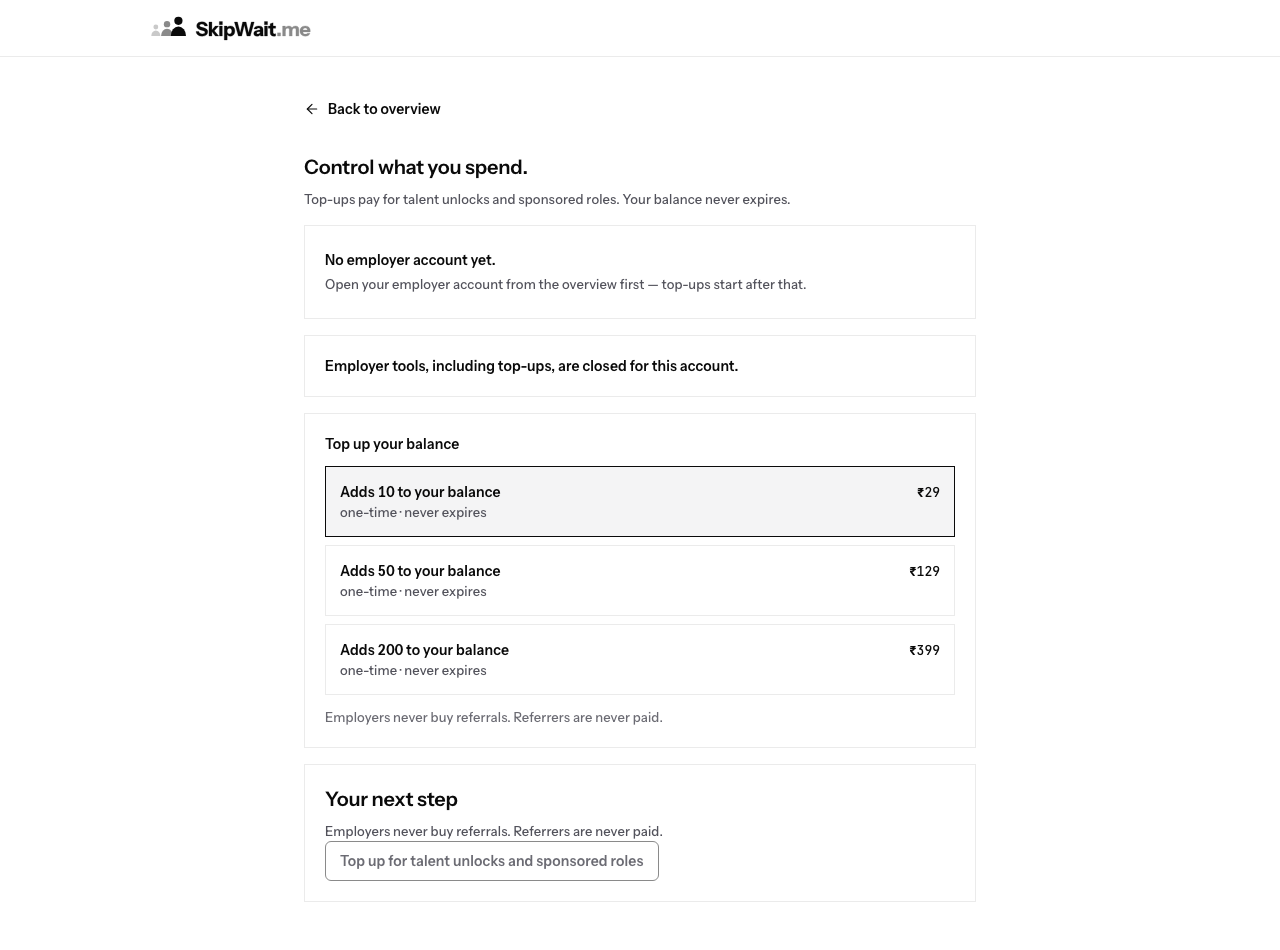
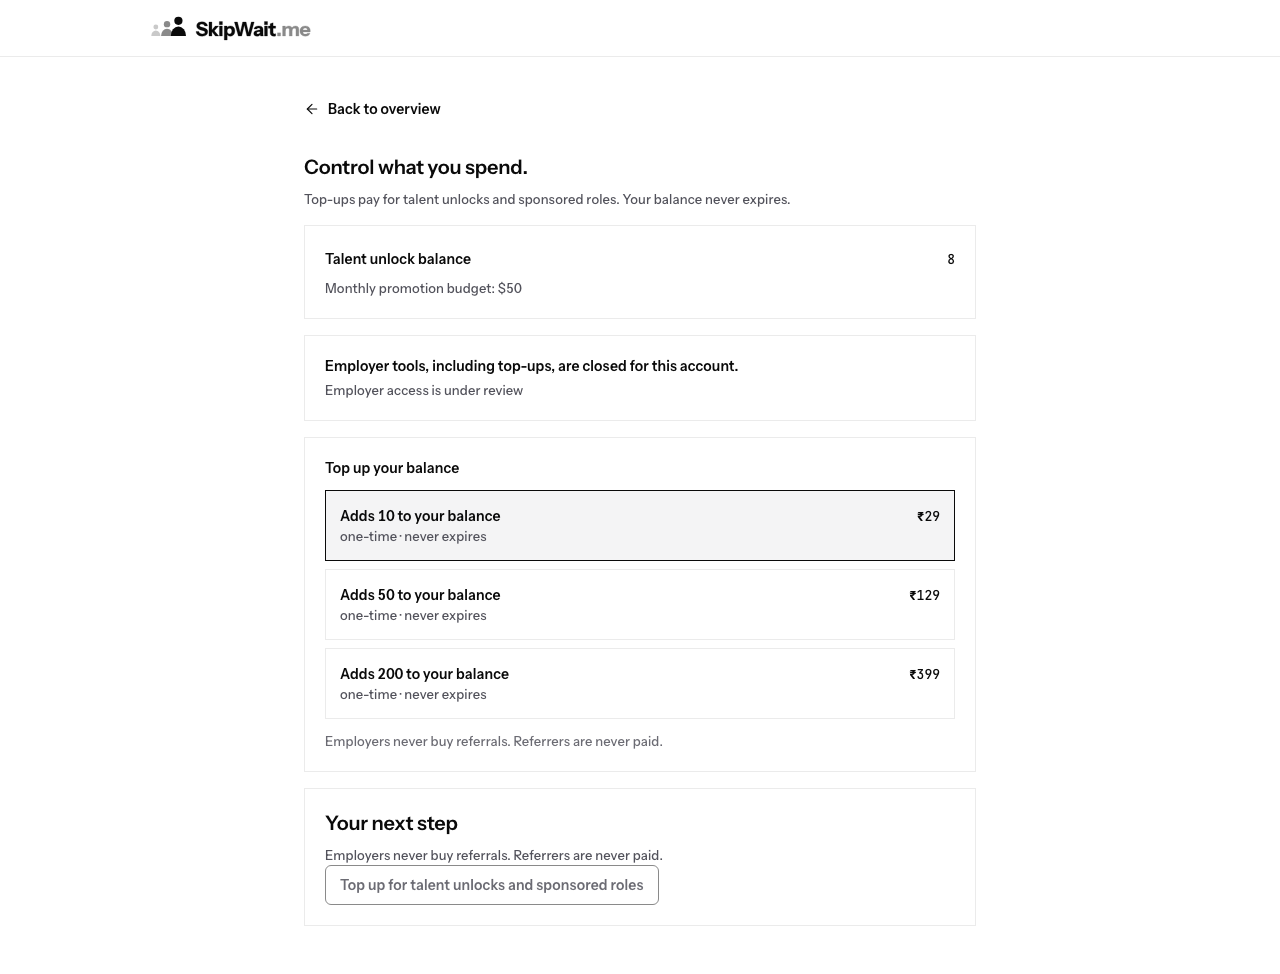
D-048-p3-employer-billing: the restricted fixture carries the route's account envelope
The committed restricted capture fixture returned a bare account object
while /api/employer/account answers { account } and the data edge parses
that envelope, so the fixture parsed as account: null and the capture
showed "No employer account yet." instead of the restricted account it
describes. It now carries { account } and approvalStatus "pending" - the
state that actually answers 403 on spend-history, since requireEmployer
needs an approved account.

A new test serves the checked-in fixture's own route bodies verbatim, the
way the capture harness does, and pins the balance, the decision note,
the absence of the no-account state, the disabled commit and zero
purchase requests. It failed before this change and passes after; the
1280 and 390 captures are regenerated from the corrected fixture.

diff --git a/client/src/pages/goal/employer-billing/employerBilling.goal.test.tsx b/client/src/pages/goal/employer-billing/employerBilling.goal.test.tsx
@@ -116,6 +116,25 @@ const stubRazorpay = () => {
 const purchaseCalls = () => calls.filter(call => call.path === PURCHASE_PATH);
 const idempotencyKeys = () => purchaseCalls().map(call => call.headers["Idempotency-Key"]);
 
+/** Serve a checked-in capture fixture verbatim. The browser harness
+ * (scripts/kit-screens/capture.mjs) fulfils each route with the fixture's own
+ * `body`, so a fixture with the wrong envelope renders a state the page never
+ * claims; this helper makes that drift fail here instead of only in a capture. */
+const serveFixture = (name: string) => {
+  const fixture = JSON.parse(readFileSync(`design/goal-ui/captures/employer-billing/goal-employer-billing__${name}.json`, "utf8")) as {
+    routes: Array<{ method?: string; path: string; match?: string; status?: number; body?: unknown }>;
+  };
+  calls = [];
+  vi.stubGlobal("fetch", vi.fn(async (input: RequestInfo | URL, init?: RequestInit) => {
+    const path = String(input).replace(/^https?:\/\/[^/]+/, "").split("?")[0];
+    const method = (init?.method ?? "GET").toUpperCase();
+    calls.push({ path, method, headers: (init?.headers ?? {}) as Record<string, string>, body: String(init?.body ?? "") });
+    const hit = fixture.routes.find(route => (route.method ?? "GET").toUpperCase() === method && (route.match === "prefix" ? path.startsWith(route.path) : path === route.path));
+    if (!hit) return json(404, { error: "not mocked" }, path);
+    return json(hit.status ?? 200, hit.body ?? {}, path);
+  }) as never);
+};
+
 const renderPage = (ui: React.ReactElement) => render(<QueryClientProvider client={new QueryClient()}>{ui}</QueryClientProvider>);
 
 afterEach(() => {
@@ -200,6 +219,23 @@ describe("goal /employer/billing states", () => {
     expect(() => assertGoalPage(container, GOAL_PAGE)).not.toThrow();
     fireEvent.click(commit);
     expect(purchaseCalls()).toHaveLength(0);
+  });
+
+  it("the committed restricted fixture renders the account it carries, not the no-account state", async () => {
+    // The capture harness serves this fixture's bodies verbatim, so its account
+    // envelope must be the route's own `{ account }` (server/employerRoutes.ts:101).
+    serveFixture("restricted");
+    const { container } = renderPage(<GoalEmployerBilling />);
+    expect(await screen.findByText("Employer tools, including top-ups, are closed for this account.")).toBeTruthy();
+    expect(screen.getByText("Talent unlock balance")).toBeTruthy();
+    expect(screen.getByText("8")).toBeTruthy();
+    expect(screen.getByText("Employer access is under review")).toBeTruthy();
+    expect(screen.queryByText("No employer account yet.")).toBeNull();
+    const commit = screen.getByRole("button", { name: /Top up for talent unlocks and sponsored roles/ });
+    expect(commit.getAttribute("aria-disabled")).toBe("true");
+    fireEvent.click(commit);
+    expect(purchaseCalls()).toHaveLength(0);
+    expect(() => assertGoalPage(container, GOAL_PAGE)).not.toThrow();
   });
 
   it("empty ledger: the honest empty state, not a fabricated record", async () => {

diff --git a/docs/plans/D-048-employer.md b/docs/plans/D-048-employer.md
@@ -90,4 +90,6 @@ None. Employer commercials and consent rules are already decided; this packet ma
 Branch agent/queue/d048-p3-employer-billing @ code head `7d188a19`, merged with origin/main `7df2004b` as a genuine two-parent merge (`208d5638`, parents `2d22adf1` + `7df2004b`; diff vs main unchanged at 6 files / 855 insertions before this row's captures). Red first: Qoder's test-only commit `82342af1` reproduced in a detached worktree — the goal suite cannot resolve `./GoalEmployerBilling` and both switch tests fail → 20/20 on the implementation head. This session's own defect pin `0180940d` failed 1/18 before the fix. Mutation binding: adding one field to the purchase POST body turns 2 money-path tests red (`expected '{"pack":"growth","note":"mutant"}' to be '{"pack":"growth"}'`); removing `grid-cols-1` from one grid turns the new overflow pin red again; both mutants restored clean. Gate on `7d188a19`: `pnpm check` 0 · design-token-audit OK (430 files / 1274 approved tokens / 3 third-party) · lint-deploy-migrations 0 · check-deploy-triggers OK · decision-id-check 0 · scope-check "3 owned path(s), every change inside them" · `git diff --check` 0 · focused 21/21 · boundary/coverage/harness 307/307 · full `pnpm quality:gate` 0 (maxWorkers=1, 1028s: 604 files + 5 skipped, 5949 passed + 18 skipped, 0 failed) · `pnpm build` 0 · `VITE_GOAL_SURFACES=all pnpm build` 0. 1280/390: 11 state pairs (22 PNGs) from 11 synthetic fixtures, all `horizontalOverflowPx: 0`, `unmatchedApi: []`; local build with `VITE_GOAL_SURFACES=employer-billing`. Live: not landed, by design (Tier 1 draft PR, D-074/D-151); `RELEASED` stays `["home"]`, so the surface ships dark and no live page changed.
 Left out / follow-ups: a fresh Tier 1 draft PR is red only at the Tier 1 review gate by construction — the D-254 class (#988/D-286 registers `PICKER-gate-red-review-route`); that gate is not waived, and the independent review is owed on the branch's final head (each status/marker commit moves it). The picker/FIFO order conflict measured this session is on #811 (comment 6666306241) and #982 (comment 6666324607): numbered priority hands the two paused LANDs (#989/#992) before the FIFO-first #982, and #982's LAND is reachable only after five avoids. No gate, tier, verdict, registry status, landing slot or production flag was changed by this session.
 
+`D-048-p3-employer-billing`: fix — agent/queue/d048-p3-employer-billing — Qoder · d6a6 — 2026-11-07 — resolves the two findings in GPT-6 Astra · 4e32's evidence-hold review of `091fbf70` (PR #996 comment 6712611722). **P2 fixture defect, repaired red-first.** `design/goal-ui/captures/employer-billing/goal-employer-billing__restricted.json` returned a bare account object while the route answers `{ account }` (`server/employerRoutes.ts:101`) and `employerBillingData.ts` parses that envelope, so the committed fixture parsed as `account: null` and rendered "No employer account yet." with no balance or decision note. The fixture now carries `{ "account": { ... } }` and `approvalStatus: "pending"`, which is the state that actually answers 403 on `/api/employer/spend-history` (`requireEmployer` needs `approved`; an `approved` account could not be restricted). A new test, "the committed restricted fixture renders the account it carries, not the no-account state", serves the checked-in fixture's own route bodies verbatim the way the capture harness does, and pins balance 8, the decision note, the absence of the no-account state, the disabled commit and zero purchase requests. It failed before the fix (`Unable to find an element with the text: Talent unlock balance`) and passes after. `restricted-1280.png` / `restricted-390.png` regenerated from the corrected fixture (`horizontalOverflowPx: 0` at both). **Finding 1, assertion-level red-first evidence.** Each required assertion was proved to fail on its own, with the implementation mutated and restored byte-identically (`git diff --stat` empty after each run): restricted state — dropping `RESTRICTED_REASON` from `disabledReason` fails `expected null to be 'true'` on the commit's `aria-disabled`; no-account state — same mutation fails the same assertion; money copy — `TOPUP_HEADING = "Buy credits"` fails `expected '…' not to match /Buy credits|Buy referrals/`; loading — returning `null` instead of `<Loading />` fails `Unable to find role="heading" and name "Control what you spend."`; error — replacing "Nothing was changed." fails `expected 'Something went wrong.…' to contain 'Nothing was changed'`. These are assertion failures at the named test, not a module-resolution error. Gate on this head: `pnpm check` 0 · design-token-audit OK (442 files / 1273 approved tokens / 3 third-party) · lint-deploy-migrations 0 · check-deploy-triggers OK · scope-check "3 owned path(s), every change inside them" · `git diff --check` 0 · focused `employer-billing` 22/22 · `pnpm build` 0 · `VITE_GOAL_SURFACES=all pnpm build` 0. **Not fixed here, by ownership:** the reviewer's separate pre-existing note that the flag-off `EmployerBilling.tsx:77` handler omits the `Idempotency-Key` the route requires (428) is real and predates this PR; `EmployerBilling.tsx` is switch-only under this row's owns, so it needs its own row rather than an edit here. No production flag, employer price, unlock or access rule changed.
+
 `D-048-p3-for-companies`: unblocked by ruling **D-296** (2026-11-07, Antigravity · 2651, unblock lock `agent/architect/d048-p3-for-companies`): the block on Hark · 32ab's build is registration, not a defect. This packet already names `components/employer/employerPlans.ts` read-only (`:37`), and the data contracts carry no styling leak (satisfies `behavior-only` under D-241). The row now owns `client/src/test/goalPagesBoundary.test.ts` (syncedTo `"D-296"`); on the row's own branch, admit `components/employer/employerPlans.ts` as a `behavior-only` AUDITED entry. The row stays Tier 1 and `todo`.
